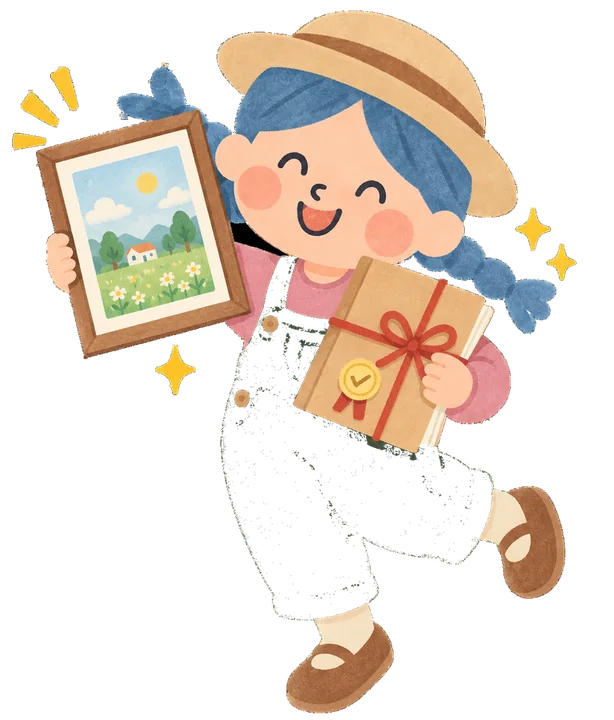
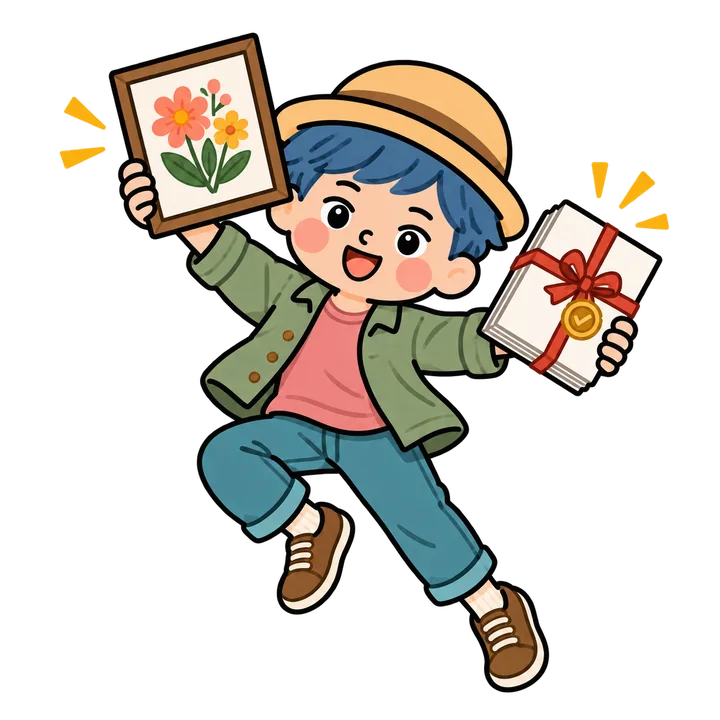
Show verified final delivery cutout

diff --git a/app/contact/page.tsx b/app/contact/page.tsx
@@ -183,7 +183,7 @@ export default function ContactPage() {
                   <h3 className="font-serif text-base font-bold text-paper">{p.title}</h3>
                   <p className="mt-1 text-xs leading-relaxed text-paper/60">{p.desc}</p>
                 </div>
-                {["01", "02", "03"].includes(p.step) && (
+                {["01", "02", "03", "04"].includes(p.step) && (
                   <div className="absolute -bottom-5 right-1 h-32 w-28 sm:right-4 sm:h-40 sm:w-36">
                     <Image src={asset(p.art)} alt={`小艾示範${p.title}`} fill className="object-contain object-bottom" sizes="144px" />
                   </div>
